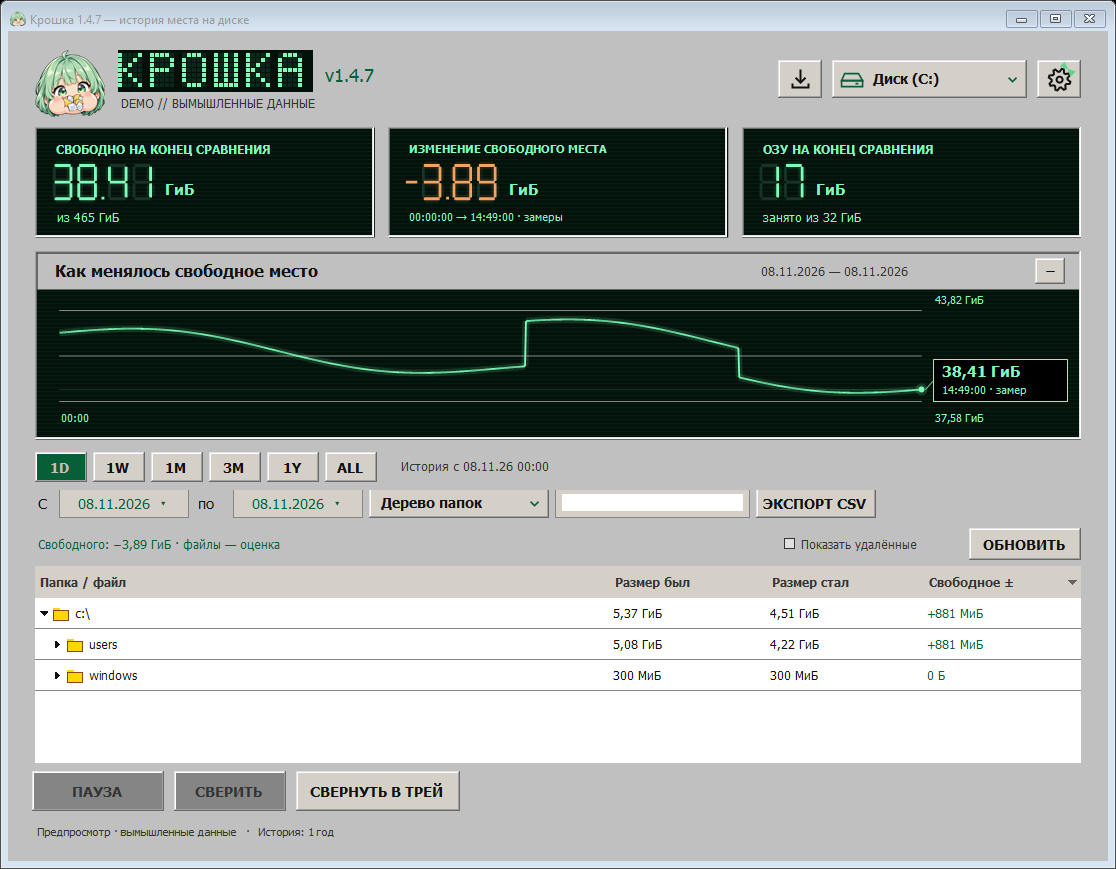
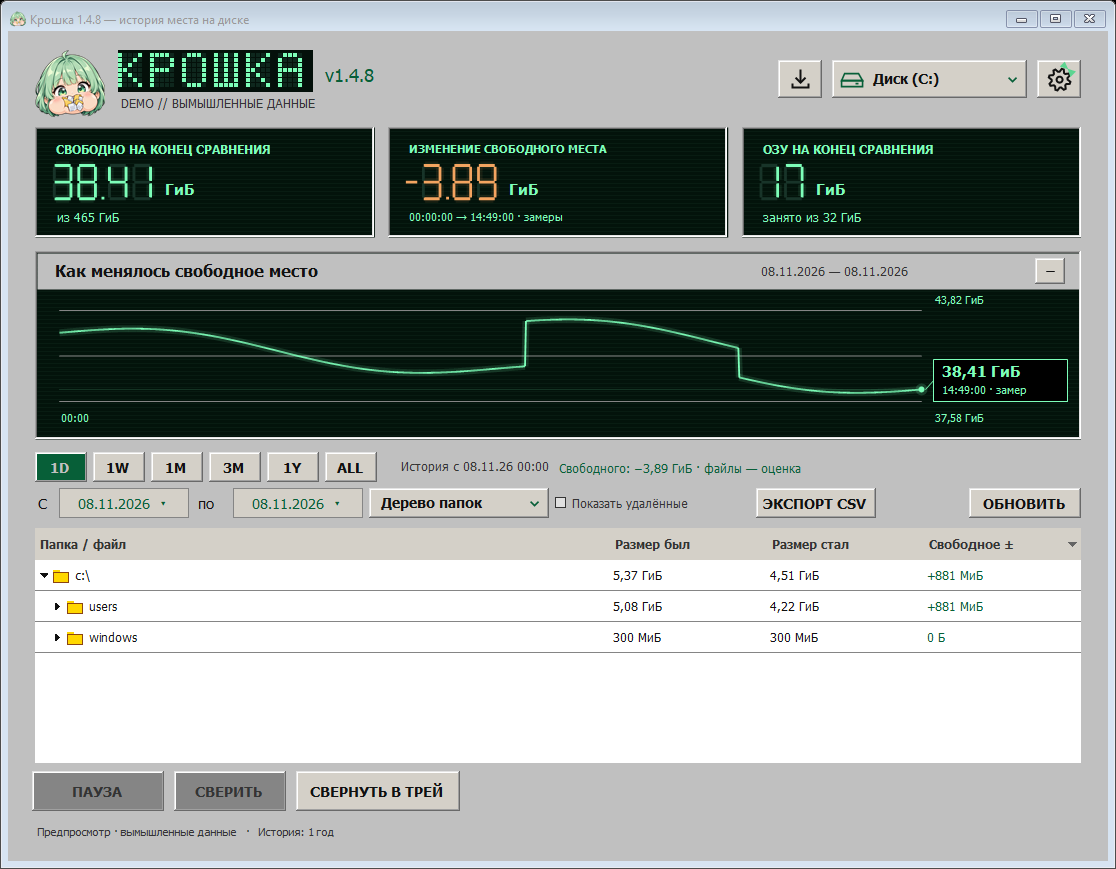
Крошка 1.4.8: исправить выбор режима и открыть дерево при запуске

Changed region(s): [[0.0305, 0.5593, 0.9749, 0.8078], [0.4875, 0.5282, 0.7312, 0.5903]]

diff --git a/src/MainForm.cs b/src/MainForm.cs
@@ -209,9 +209,8 @@ internal sealed class MainForm : Form
     long earliestSample = Store.Now;
     List<DataGridViewRow> tableData = new();
     readonly Dictionary<int, (int Column, bool Descending)> tableSorts = new();
-    readonly Panel tableToolbar = new() { Dock = DockStyle.Top, Height = 38, Padding = new Padding(0, 0, 0, 6) };
     readonly SoftButton refreshTable = new() { Text = "Обновить", Dock = DockStyle.Right, Width = 112 };
-    readonly Panel tablePager = new() { Dock = DockStyle.Bottom, Height = 34 };
+    readonly Panel tablePager = new() { Dock = DockStyle.Bottom, Height = 41, Padding=new Padding(0,7,0,0) };
     readonly Label pageLabel = new() { AutoSize = false, Width = 220, Height = 30, TextAlign = ContentAlignment.MiddleCenter, ForeColor = Theme.Muted };
     readonly SoftButton prevPage = new() { Text = "←", Width = 45, Height = 28 };
     readonly SoftButton nextPage = new() { Text = "→", Width = 45, Height = 28 };
@@ -275,14 +274,18 @@ internal sealed class MainForm : Form
         };
         overview.SetCollapsed(monitor.Config.GraphCollapsed);
         var filterHost = new Panel { Dock = DockStyle.Fill };
-        var periods = new FlowLayoutPanel { Dock = DockStyle.Top, Height = 38, WrapContents = false };
+        var periodRow = new Panel { Dock=DockStyle.Top, Height=32 };
+        var periods = new FlowLayoutPanel { Dock=DockStyle.Left, AutoSize=true, AutoSizeMode=AutoSizeMode.GrowAndShrink, WrapContents=false };
+        periodRow.Controls.Add(folderTree.Summary);
+        periodRow.Controls.Add(periods);
         foreach (string p in new[] { "1D", "1W", "1M", "3M", "1Y", "ALL" })
         {
             var button = new SoftButton { Text = p, Width = 52, Height = 30, Margin = new Padding(0, 0, 6, 0) };
             periodButtons[p] = button; button.Click += (_, _) => SelectPeriod(p); periods.Controls.Add(button);
         }
         periods.Controls.Add(periodHint);
-        var filters = new FlowLayoutPanel { Dock = DockStyle.Bottom, Height = 34, WrapContents = false, Padding = Padding.Empty };
+        var filterRow = new Panel { Dock=DockStyle.Bottom, Height=34 };
+        var filters = new FlowLayoutPanel { Dock = DockStyle.Fill, Height = 34, WrapContents = false, Padding = Padding.Empty };
         var label = new Label { Text = "С", AutoSize = false, Width = 18, Height = 30, TextAlign = ContentAlignment.MiddleLeft, ForeColor = Theme.Ink };
         var endLabel = new Label { Text = "по", AutoSize = false, Width = 32, Height = 30, TextAlign = ContentAlignment.MiddleLeft, ForeColor = Theme.Ink };
         search.BackColor=Theme.Surface; search.ForeColor=Theme.Ink;
@@ -293,12 +296,21 @@ internal sealed class MainForm : Form
         searchBox.Controls.Add(search); searchBox.Resize += (_,_) => AlignSearch(); search.FontChanged += (_,_) => AlignSearch(); AlignSearch();
         searchBox.Paint += (_,e) => { using var pen = new Pen(Theme.Line); e.Graphics.DrawRectangle(pen,0,0,searchBox.Width-1,searchBox.Height-1); };
         foreach (Control control in new Control[] { label, day, endLabel, endDay, mode, searchBox, export }) control.Margin = new Padding(0, 0, 6, 0);
-        filters.Controls.AddRange([label, day, endLabel, endDay, mode, searchBox, export]);
-        filterHost.Controls.Add(filters); filterHost.Controls.Add(periods); root.Controls.Add(filterHost, 0, 2);
+        folderTree.RemovedFilter.Dock=DockStyle.None;
+        folderTree.RemovedFilter.Size=searchBox.Size;
+        folderTree.RemovedFilter.Margin=searchBox.Margin;
+        filters.Controls.AddRange([label, day, endLabel, endDay, mode, searchBox, folderTree.RemovedFilter, export]);
+        var refreshSlot=new Panel { Dock=DockStyle.Right, Width=112, Padding=new Padding(0,0,0,4) };
+        refreshTable.Dock=folderTree.RefreshButton.Dock=DockStyle.Fill;
+        refreshSlot.Controls.Add(refreshTable);
+        refreshSlot.Controls.Add(folderTree.RefreshButton);
+        filterRow.Controls.Add(filters);
+        filterRow.Controls.Add(refreshSlot);
+        filterHost.Controls.Add(filterRow); filterHost.Controls.Add(periodRow); root.Controls.Add(filterHost, 0, 2);
         StyleTable(); var tablePanel = new Panel { Dock = DockStyle.Fill }; table.Dock = DockStyle.Fill;
         empty.Dock = DockStyle.Fill; empty.TextAlign = ContentAlignment.MiddleCenter; empty.ForeColor = Theme.Muted; empty.Font = Theme.Font(12);
-        tablePanel.Controls.Add(table); tablePanel.Controls.Add(tablePager); tablePanel.Controls.Add(tableToolbar);
-        tableToolbar.Controls.Add(refreshTable); refreshTable.Click += (_, _) => RefreshView(); tablePanel.Controls.Add(empty);
+        tablePanel.Controls.Add(table); tablePanel.Controls.Add(tablePager);
+        refreshTable.Click += (_, _) => RefreshView(); tablePanel.Controls.Add(empty);
         var pagerFlow = new FlowLayoutPanel { Dock = DockStyle.Fill, WrapContents = false };
         pagerFlow.Controls.AddRange([prevPage, pageLabel, nextPage]); tablePager.Controls.Add(pagerFlow);
         prevPage.Click += (_, _) => { tablePage--; RenderTablePage(); };
@@ -350,7 +362,16 @@ internal sealed class MainForm : Form
             updatingDates = true; if (endDay.Value < day.Value) day.Value = endDay.Value;
             preset = "CUSTOM"; updatingDates = false; UpdatePeriodButtons(); RefreshView();
         };
-        mode.SelectedIndexChanged += (_, _) => RefreshView(); UpdatePeriodButtons();
+        void ShowModeControls()
+        {
+            bool tree=mode.SelectedIndex==4;
+            folderTree.Summary.Visible=folderTree.RemovedFilter.Visible=folderTree.RefreshButton.Visible=tree;
+            searchBox.Visible=refreshTable.Visible=!tree;
+            table.Visible=tablePager.Visible=!tree;
+            folderTree.Visible=tree;
+        }
+        ShowModeControls();
+        mode.SelectedIndexChanged += (_, _) => { ShowModeControls(); RefreshView(); }; UpdatePeriodButtons();
         search.TextChanged += (_, _) => { debounce.Stop(); debounce.Start(); }; debounce.Tick += (_, _) => { debounce.Stop(); RefreshView(); };
         refresh.Tick += (_, _) => { if (Visible) RefreshView(false); }; refresh.Start();
         progressRefresh.Tick += (_, _) => RefreshProgress();
@@ -482,7 +503,7 @@ internal sealed class MainForm : Form
             int selectedMode = mode.SelectedIndex; string filter = search.Text.Trim();
             periodHint.Text = $"История с {HistoryPeriod.Local(earliest):dd.MM.yy HH:mm}";
             search.Enabled = selectedMode != 4;
-            folderTree.Visible = selectedMode == 4; table.Visible = selectedMode != 4; tablePager.Visible = selectedMode != 4; tableToolbar.Visible = selectedMode != 4;
+            folderTree.Visible = selectedMode == 4; table.Visible = selectedMode != 4; tablePager.Visible = selectedMode != 4;
             if (selectedMode == 4)
             {
                 empty.Visible = false; folderTree.BringToFront();

diff --git a/src/FolderHistoryView.cs b/src/FolderHistoryView.cs
@@ -30,7 +30,7 @@ internal sealed class FolderHistoryView : UserControl
     const int PageSize = 250;
     sealed record More(Node Parent);
     readonly SoftButton reload = new() { Text = "Обновить", Width = 112, Dock = DockStyle.Right, Height = 30 };
-    readonly Label comparison = new() { Dock = DockStyle.Fill, ForeColor = Theme.Mint, Font = Theme.Font(9), TextAlign = ContentAlignment.MiddleLeft };
+    readonly Label comparison = new() { AutoEllipsis=true, Dock = DockStyle.Fill, ForeColor = Theme.Mint, Font = Theme.Font(9), TextAlign = ContentAlignment.MiddleLeft };
     readonly ToolTip explanation = new();
     readonly System.Windows.Forms.Timer animation = new() { Interval = 100 };
     readonly Image? loadingMascot = LoadingMascot.Load();
@@ -54,11 +54,13 @@ internal sealed class FolderHistoryView : UserControl
     bool descending = true;
     readonly SemaphoreSlim reads = new(1, 1);
 
+    public Control Summary => comparison;
+    public Control RemovedFilter => showRemoved;
+    public Control RefreshButton => reload;
+
     public FolderHistoryView()
     {
         Dock = DockStyle.Fill; BackColor = Theme.Bg;
-        var top = new Panel { Dock = DockStyle.Top, Height = 38, Padding = new Padding(0, 0, 0, 6) };
-        top.Controls.Add(comparison); top.Controls.Add(showRemoved); top.Controls.Add(reload);
         showRemoved.CheckedChanged += (_, _) => Render();
         explanation.SetToolTip(showRemoved, "Удалённые файлы скрыты в текущем периоде. Их история и исторические итоги сохранены. В прошлых периодах они всегда видны.");
         explanation.SetToolTip(comparison, "На диске — реальный замер свободного места Windows.\nВ таблице — оценка вклада файлов по их размерам.\nВезде плюс освобождает место, минус занимает.");
@@ -75,7 +77,7 @@ internal sealed class FolderHistoryView : UserControl
         Grid.Columns[0].FillWeight = 55;
         foreach (DataGridViewColumn c in Grid.Columns) { c.SortMode = DataGridViewColumnSortMode.Programmatic; if (c.Index > 0) { c.ValueType = typeof(long); c.DefaultCellStyle.NullValue = "Нет данных"; c.FillWeight = 15; c.DefaultCellStyle.Alignment = DataGridViewContentAlignment.MiddleLeft; c.DefaultCellStyle.Padding = new Padding(0); } }
         HistoryTable.AttachFormatting(Grid);
-        Controls.Add(Grid); Controls.Add(top);
+        Controls.Add(Grid);
         Grid.CellClick += async (_, e) =>
         {
             if (e.RowIndex < 0 || e.ColumnIndex != 0 || ModifierKeys != Keys.None) return;

diff --git a/src/ThemeControls.cs b/src/ThemeControls.cs
@@ -23,22 +23,43 @@ internal sealed class GraphToggle : SoftButton
 internal sealed class ModePicker : DriveButton
 {
     static readonly string[] Labels=["По файлам","По папкам","Системные размеры","Журнал наблюдения","Дерево папок"];
-    int selected;
+    readonly ContextMenuStrip menu=MenuArt.Create();
+    int selected=4;
     protected override bool ShowDisk => false;
     public event EventHandler? SelectedIndexChanged;
     public int SelectedIndex {
         get => selected;
-        set { if(value==selected)return; selected=value;Text=Labels[value];SelectedIndexChanged?.Invoke(this,EventArgs.Empty); }
+        set {
+            if(value==selected)return;
+            selected=value;
+            Text=Labels[value];
+            SelectedIndexChanged?.Invoke(this,EventArgs.Empty);
+        }
     }
-    public ModePicker(){Text=Labels[0];}
-    protected override void OnClick(EventArgs e)
+    public ModePicker()
     {
-        base.OnClick(e); var menu=MenuArt.Create();menu.ShowCheckMargin=true;menu.ShowImageMargin=false;
+        Text=Labels[selected];
+        menu.ShowCheckMargin=true;
+        menu.ShowImageMargin=false;
         for(int i=0;i<Labels.Length;i++) {
             int index=i;
-            menu.Items.Add(new ToolStripMenuItem(Labels[i],null,(_,_)=>SelectedIndex=index){Checked=index==selected});
+            menu.Items.Add(new ToolStripMenuItem(Labels[i],null,(_,_)=>SelectedIndex=index));
         }
-        menu.Closed+=(_,_)=>menu.Dispose();menu.Show(this,0,Height);
+    }
+    protected override void OnClick(EventArgs e)
+    {
+        base.OnClick(e);
+        menu.ForeColor=Theme.Ink;
+        menu.BackColor=Theme.Panel;
+        menu.Font=Font;
+        for (int i=0;i<menu.Items.Count;i++)
+            ((ToolStripMenuItem)menu.Items[i]).Checked=i==selected;
+        menu.Show(this,0,Height);
+    }
+    protected override void Dispose(bool disposing)
+    {
+        if(disposing)menu.Dispose();
+        base.Dispose(disposing);
     }
 }
 internal sealed class ThemeTile : SoftButton

diff --git a/README.md b/README.md
@@ -11,7 +11,7 @@
 ## Как читать историю
 
 1. Выберите диск в правом верхнем углу. Под графиком выберите период или укажите две даты.
-2. В режиме **Дерево папок** раскройте интересующую папку. «Размер был» и «Размер стал» относятся к выбранному периоду. В столбце «Свободное ±» плюс означает, что место освободилось.
+2. При открытии выбран режим **Дерево папок**. Раскройте интересующую папку. «Размер был» и «Размер стал» относятся к выбранному периоду. В столбце «Свободное ±» плюс означает, что место освободилось.
 3. Для поиска по имени переключитесь на **По файлам**. Двойной щелчок открывает подробности. Кнопка **Обновить** перечитывает историю из базы. **Сверить** запускает обход диска, например после долгого перерыва в наблюдении.
 4. В дереве можно выделить несколько файлов через Shift или Ctrl. Правый щелчок открывает расположение или отправляет выбранные файлы в корзину после подтверждения. Место на диске освобождается при очистке корзины.
 
@@ -30,4 +30,5 @@
 ## Сборка
 
 На Windows с .NET 8 SDK выполните `.\build.ps1` из PowerShell. Приложение появится в `app\Kroshka.exe`. Для запуска этой сборки требуется .NET 8 Desktop Runtime x64. Выпуск установщика описан в [.github/workflows/release.yml](.github/workflows/release.yml).
+
 
